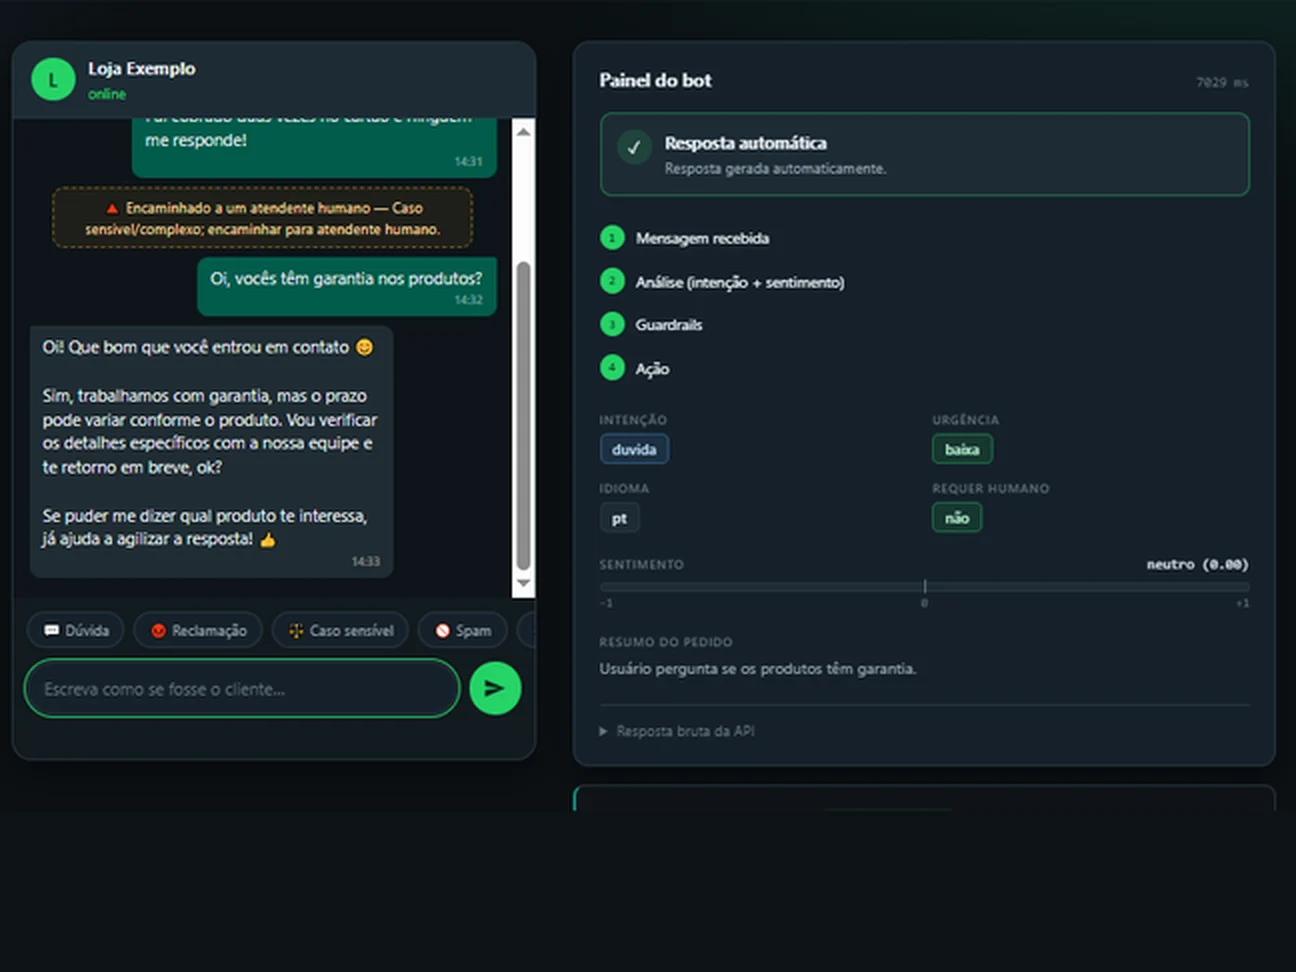
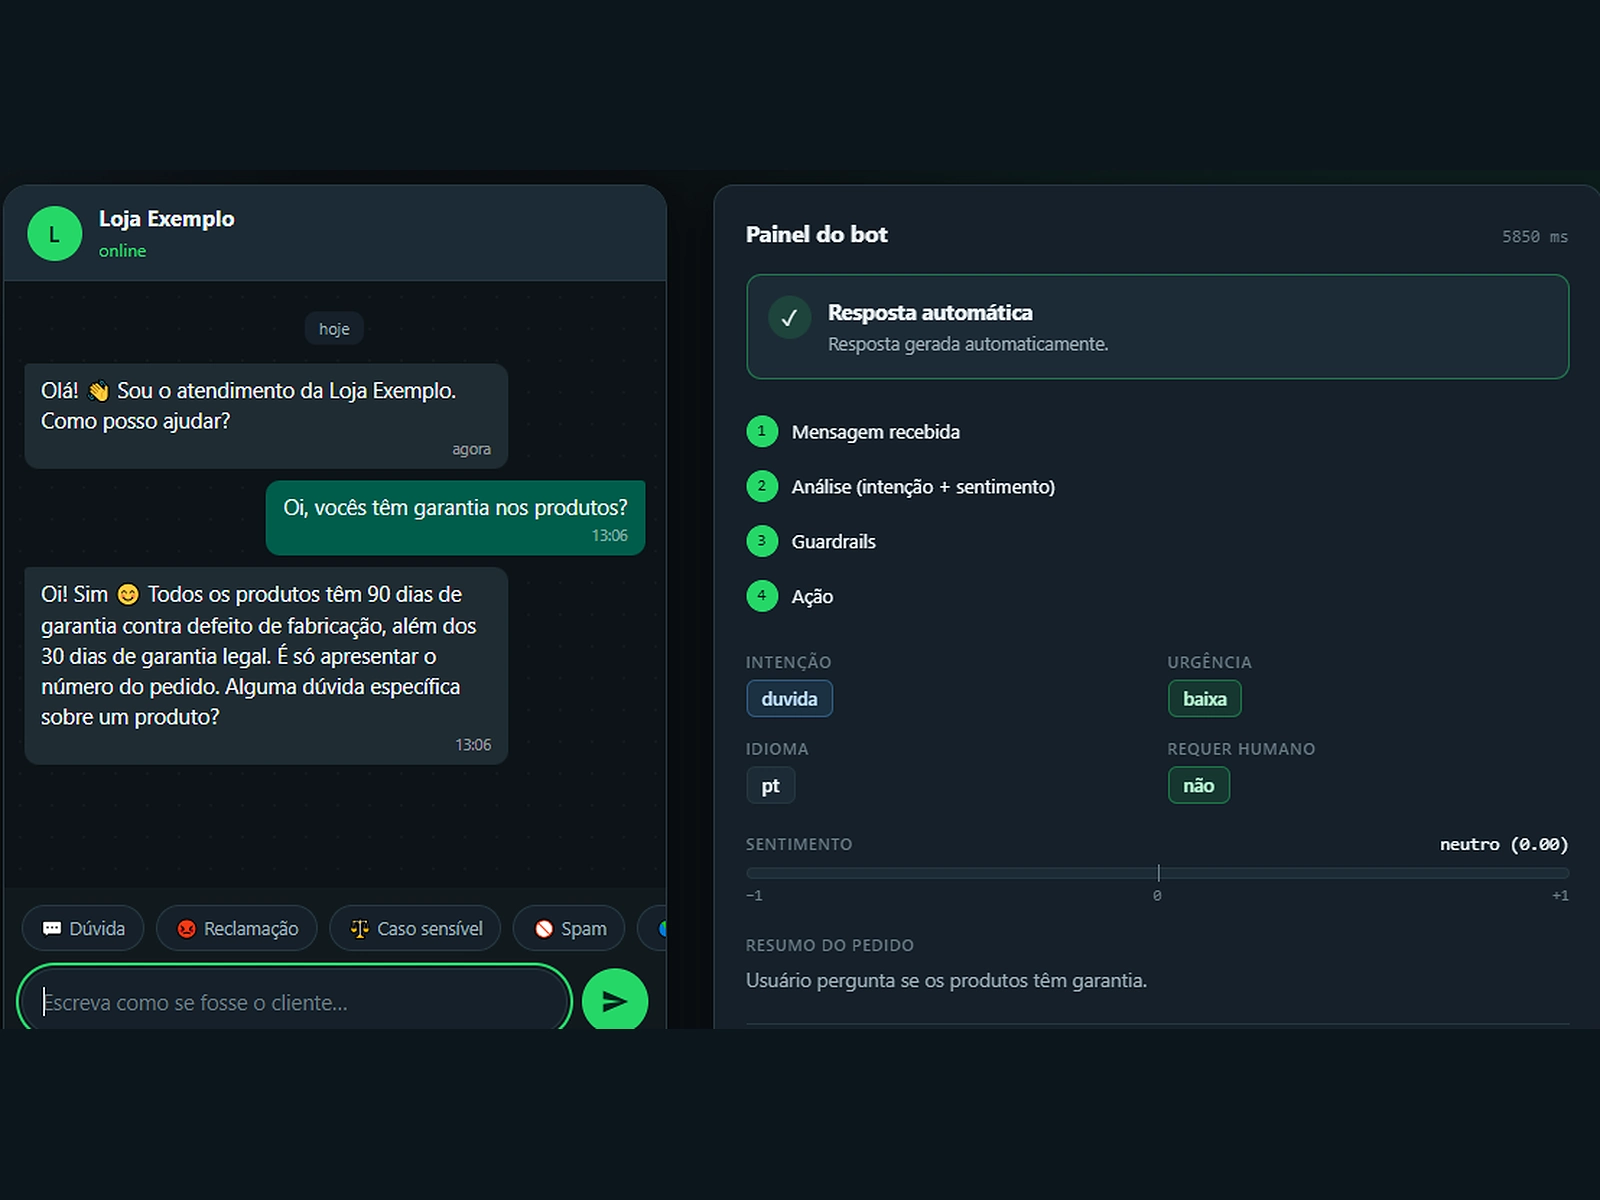
add images

Changed region(s): [[0.0, 0.0309, 1.0, 0.8642], [0.7099, 0.4321, 0.8333, 0.679]]

diff --git a/pages/index.html b/pages/index.html
@@ -119,12 +119,12 @@
 
             <div class="col-lg-4 col-md-6">
               <div class="portfolio-content h-100">
-                <img src="assets/img/portfolio/wppbot-3.webp" class="img-fluid" alt="WppBot: painel de análise com intenção, urgência, idioma e sentimento da mensagem">
+                <img src="assets/img/portfolio/wppbot-3.webp" class="img-fluid" alt="WppBot: tela de configuração da persona do bot e da base de conhecimento, com fatos como garantia, prazo de entrega e formas de pagamento">
                 <div class="portfolio-info">
-                  <h4>Análise da mensagem</h4>
-                  <p>Intenção, urgência, idioma e sentimento a cada mensagem.</p>
+                  <h4>Persona e base de conhecimento</h4>
+                  <p>O cliente ajusta o tom e os fatos do bot — sem deploy.</p>
                   <div>
-                    <a href="assets/img/portfolio/wppbot-3.webp" title="WppBot — análise da mensagem" data-gallery="portfolio-gallery-wppbot" class="glightbox preview-link"><i class="bi bi-zoom-in"></i></a>
+                    <a href="assets/img/portfolio/wppbot-3.webp" title="WppBot — persona e base de conhecimento" data-gallery="portfolio-gallery-wppbot" class="glightbox preview-link"><i class="bi bi-zoom-in"></i></a>
                   </div>
                 </div>
               </div>
